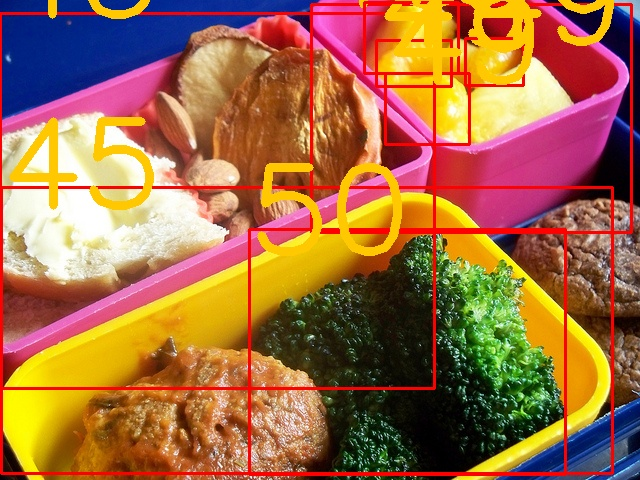
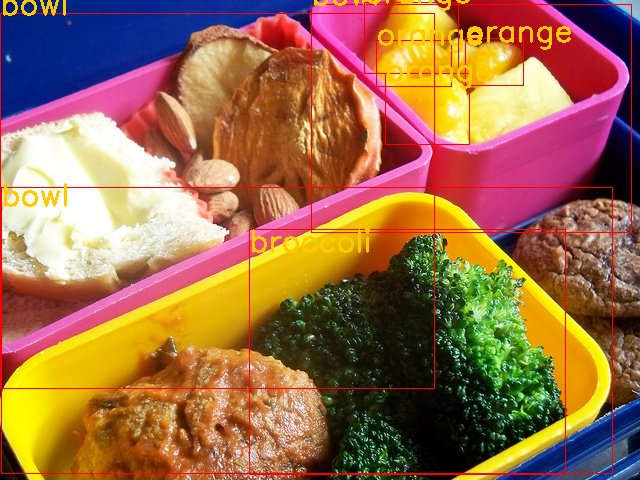
modify configer and plot images

Changed region(s): [[0.0, 0.0, 1.0, 1.0]]

diff --git a/debug.py b/debug.py
@@ -5,8 +5,9 @@ Created on Wed Jul 18 16:48:50 2018
 
 @author: lsk
 """
-
 # -*- coding: utf-8 -*-
+import os
+
 import torch as t
 import torch.nn as nn
 import numpy as np
@@ -30,7 +31,7 @@ if __name__=='__main__':
     # DataLoader
     dataloader = t.utils.data.DataLoader(COCODataset("/home/lsk/Downloads/YOLOv3_PyTorch/data/coco/trainvalno5k.txt",
                                          (416, 416), is_training=True),
-                                         batch_size=1, shuffle=False, num_workers=32, pin_memory=True)
+                                         batch_size=10, shuffle=False, num_workers=32, pin_memory=True)
     
     cfg=Configer("./cfg/yolov3_train.cfg")
     net_info=cfg.get_net_info()
@@ -56,19 +57,45 @@ if __name__=='__main__':
             images=images.cuda()            
             prediction = model(images)
             #loss=loss_function(prediction, labels, model.stride)
-            labels=loss_function.debug_loss(prediction, labels, model.stride)
+            labels=loss_function.debug_loss(prediction, labels)
             labels=labels.cuda()
             DK=detector.DK_Output()
-            result=DK.write_results(labels, cfg.get_num_classes())
-            result=result.cpu().numpy()
+            results=DK.write_results(labels, cfg.get_num_classes())
+            results=results.cpu().numpy()
             t.cuda.empty_cache()
-            img_name='/home/lsk/Downloads/YOLOv3_PyTorch/data/coco/images/train2014/COCO_train2014_000000000009.jpg'
-            im = cv2.imread(img_name)
-            im_gt = im.copy()
-            gt_boxes = [[x[1], x[2], x[3], x[4]] for x in result]
-            gt_class_ids=[int(x[-1]) for x in result]
-            im = ut.plot_bb(im_gt,gt_boxes,gt_class_ids,cfg.get_inp_dim())
-            cv2.imwrite('001_new.jpg', im)
+            img_names=['COCO_train2014_000000000009.jpg',
+                      'COCO_train2014_000000000025.jpg',
+                      'COCO_train2014_000000000030.jpg',
+                      'COCO_train2014_000000000034.jpg',
+                      'COCO_train2014_000000000036.jpg',
+                      'COCO_train2014_000000000049.jpg',
+                      'COCO_train2014_000000000061.jpg',
+                      'COCO_train2014_000000000064.jpg',
+                      'COCO_train2014_000000000071.jpg',
+                      'COCO_train2014_000000000072.jpg']
+            for i, img_name in enumerate(img_names):
+                img_dir = os.path.join('/home/lsk/Downloads/YOLOv3_PyTorch/data/coco/images/train2014/',img_name)
+                im = cv2.imread(img_dir)
+                im_gt = im.copy()            
+                gt_boxes = [[x[1], x[2], x[3], x[4]] for x in results if x[0]==i]
+                gt_class_ids=[int(x[-1]) for x in results if x[0]==i]
+                gt_class_name=[ cfg.get_dataset_name_seq()[x] for x in gt_class_ids]
+                im = ut.plot_bb(im_gt,gt_boxes,gt_class_name,cfg.get_inp_dim())
+                win_name = '1'
+                cv2.imshow(win_name,im)
+                cv2.moveWindow(win_name,10,10)
+                
+                k = cv2.waitKey(0)
+                if k==ord('q'):
+                    cv2.destroyAllWindows()
+                    break
+                elif k==ord('c'):
+                    try:
+                        cv2.destroyWindow(win_name)
+                    except:
+                        cv2.destroyAllWindows()
+                        break
+            #cv2.imwrite('001_new.jpg', im)
             '''
             for i, image in enumerate(images.cpu()):
                 image = image.numpy()

diff --git a/layer/loss_function.py b/layer/loss_function.py
@@ -16,9 +16,6 @@ class YOLO3Loss(nn.Module):
         self.num_classes = self.configer.get_num_classes()
         self.bbox_attrs = 5 + self.num_classes
         self.img_size = self.configer.get_inp_dim()    #416
-        self.stride=self.configer.get_strides()
-
-        self.ignore_threshold = self.configer.get_iou_threshold()
 
         '''
         self.coord_scale = loss_lambda[0]
@@ -32,11 +29,12 @@ class YOLO3Loss(nn.Module):
 
     def forward(self, prediction, targets):
         
+        stride=self.configer.get_total_strides()
         num_feature_map = len(self.configer.get_scaled_anchor_list())
 
         bs = prediction.size(0)
         total_anchors = prediction.size(1) #10647[507,2028,8112]
-        feature_map_size_list = [int((self.img_size / self.stride) * pow(2,i)) for i in range(num_feature_map)]
+        feature_map_size_list = [int((self.img_size / stride) * pow(2,i)) for i in range(num_feature_map)]
                 
         # Get outputs
         x = prediction[..., 0]          # Center x
@@ -118,7 +116,7 @@ class YOLO3Loss(nn.Module):
                     anch_ious = bbox.bbox_iou(gt_box, anchor_shapes)
                     # Where the overlap is larger than threshold set mask to zero (ignore)
                     for i in range(anch_ious.size()[0]):
-                        if anch_ious[i] > self.ignore_threshold:
+                        if anch_ious[i] > self.configer.get_iou_threshold():
                                 noobj_mask[b, (last_num_anchors_list[m] + len(scaled_anchor_list[m]) * gi * gj)+i] = 0
 
                     # Find the best matching anchor box
@@ -164,12 +162,12 @@ class YOLO3Loss(nn.Module):
 
         return mask, noobj_mask, tx, ty, tw, th, weight_w_h, tconf, tcls
         
-    def debug_loss(self, prediction, targets, stride):
+    def debug_loss(self, prediction, targets):
         num_feature_map = len(self.configer.get_scaled_anchor_list())
-        self.stride=stride
+        stride=self.configer.get_total_strides()
         bs = prediction.size(0)
         total_anchors = prediction.size(1) #10647[507,2028,8112]
-        feature_map_size_list = [int((self.img_size / self.stride) * pow(2,i)) for i in range(num_feature_map)] 
+        feature_map_size_list = [int((self.img_size / stride) * pow(2,i)) for i in range(num_feature_map)] 
 
         mask, noobj_mask, tx, ty, tw, th, weight_w_h, tconf, tcls = self._get_target(targets, total_anchors,
                                                                         bs, feature_map_size_list, num_feature_map)

diff --git a/net/darknet.py b/net/darknet.py
@@ -31,22 +31,17 @@ class Darknet(nn.Module):
     '''
     def __init__(self, configer):
         super(Darknet, self).__init__()
-        self.anchor_list=[]
         self.configer=configer
         self.blocks = self.configer.get_blocks()
-        self.net_info = self.configer.get_net_info()
         self.module_list = self.create_modules()        
-        self.stride=-1
-        self.flag=0
+        
     
     
     def forward(self, x):
         detections=[]
         modules=[x['type'] for x in self.blocks]
         outputs={}
-        write=0
-        if len(self.configer.get_scaled_anchor_list())!=0:            
-            self.flag=1
+        write=0        
         
         for i in range(len(modules)):
             if modules[i]=='convolutional' or modules[i]=='upsample':
@@ -75,9 +70,7 @@ class Darknet(nn.Module):
                     continue
                 
                 if not write:
-                    detections=x
-                    if self.stride==-1:
-                        self.stride=self.module_list[i][0].stride
+                    detections=x                    
                     write=1
                 else:
                     detections = t.cat((detections, x), 1)
@@ -304,12 +297,12 @@ class Darknet(nn.Module):
                 mask=x['mask'].split(',')
                 mask=[int(x) for x in mask]
                 
-                anchors=self.net_info['anchors'].split(',')
+                anchors=self.configer.get_anchors().split(',')
                 anchors=[float(x) for x in anchors]
                 anchors=[(anchors[x],anchors[x+1]) for x in range(0,len(anchors),2)]
                 anchors=[anchors[x] for x in mask]            
                 
-                self.anchor_list.append(anchors)
+                #self.anchor_list.append(anchors)
                 
                 detection = DetectionLayer(anchors=anchors, 
                                            configer=self.configer,

diff --git a/cfg/tools/configer.py b/cfg/tools/configer.py
@@ -6,13 +6,13 @@ class Configer(object):
         self.cfgfile=cfgfile
         self.blocks = []
         self.net_info=None
-        self.parse_cfg()
-        #self.net_info['dataset']=data_info
+        self._parse_cfg()
+        self.net_info['dataset']=data_info
         self.net_info['strides'] = -1
         self.net_info['scaled_anchor_list'] = []
         self.net_info['anchor_list'] = []
         
-    def set_strides(self, strides):
+    def set_total_strides(self, strides):
         self.net_info['strides'] = strides
         
     def set_scaled_anchor_list(self, scaled_anchor_list):
@@ -43,7 +43,7 @@ class Configer(object):
     def get_iou_threshold(self):
         return float(self.net_info['ignore_iou_thresh'])
     
-    def get_strides(self):
+    def get_total_strides(self):
         return self.net_info['strides']
     
     def get_anchors(self):
@@ -67,13 +67,13 @@ class Configer(object):
     def get_dataset_std():
         return data_info['std']
     
-    def get_dataset_name_seq():
-        return data_info['name_seq']
+    def get_dataset_name_seq(self):
+        return self.net_info['dataset']['name_seq']
     
     def get_data_dir():
         return data_info['data_dir']
     
-    def parse_cfg(self):
+    def _parse_cfg(self):
         """
         Takes a configuration file
         
@@ -105,5 +105,5 @@ class Configer(object):
         self.net_info=self.blocks.pop(0)
 
 if __name__ == '__main__':
-    cfg=Configer("../yolov3_train.cfg")
+    cfg=Configer("../yolov3.cfg")
     net_info=cfg.get_net_info()

diff --git a/util.py b/util.py
@@ -25,7 +25,7 @@ def get_test_input(img_name,inp_dim):
     img_ = Variable(img_) # Convert to Variable
     return img_
 
-def plot_bb(im,bb,cls,inp_dim,textSize=4,textThickness=8):
+def plot_bb(im,bb,cls,inp_dim,textSize=1,textThickness=2):
     if im.shape[0]==3:
         im=im.transpose(1,2,0)#.contiguous()
     h,w,c = im.shape
@@ -37,7 +37,7 @@ def plot_bb(im,bb,cls,inp_dim,textSize=4,textThickness=8):
         y1 = int(max([0, (box[1]/inp_dim)*h ]))
         y2 = int(min([h, (box[3]/inp_dim)*h ]))        
 
-        cv2.rectangle(im,(x1,y1),(x2,y2),(0,0,255),2)
+        cv2.rectangle(im,(x1,y1),(x2,y2),(0,0,255),1)
         cv2.putText(im,
                     '%s'%(cls[idx]),
                     (x1,int(y1*1.1)),
@@ -48,4 +48,4 @@ def plot_bb(im,bb,cls,inp_dim,textSize=4,textThickness=8):
 
 if __name__ == '__main__':
     cfgfile='./cfg/yolov3.cfg'
-    print(111)
+    print(111)    

diff --git a/layer/layers.py b/layer/layers.py
@@ -1,16 +1,11 @@
 # -*- coding: utf-8 -*-
-import util as ut
-
 import numpy as np
-import cv2 
-import matplotlib.pyplot as plt
 
 import torch as t
 import torch.nn as nn
-from torch.autograd import Variable
-import torch.nn.functional as F
 
 from logger import Logger as log
+import util as ut
 
 class EmptyLayer(nn.Module):
     def __init__(self,shortcut_from=-1,route_start=-1,route_end=-1,anchors=[]):
@@ -49,6 +44,8 @@ class DetectionLayer(nn.Module):
         #stride: Scaling ratio
         batch_size = prediction.size(0)
         self.stride=self.configer.get_inp_dim()//prediction.size(2)
+        if self.configer.get_total_strides()==-1:
+            self.configer.set_total_strides(self.stride)
         grid_size=prediction.size(2)
         bbox_attrs = 5 + self.configer.get_num_classes()
         num_anchors = len(self.anchors)

diff --git a/detector.py b/detector.py
@@ -67,8 +67,17 @@ class DK_Output:
                 image_pred_ = image_pred[non_zero_ind,:]
             except:
                 continue #if there is no result,
-            
-            img_classes=self._unique(image_pred_[:,-1])
+            try:
+                img_classes=self._unique(image_pred_[:,-1])
+            except:
+                seq = torch.FloatTensor([i]).cuda(), image_pred_
+                if not write:
+                    output = torch.cat(seq).unsqueeze(0)
+                    write = True
+                else:
+                    out = torch.cat(seq).unsqueeze(0)
+                    output = torch.cat((output,out))                
+                continue
             
             for cls in img_classes:#get the detections with one particular class
                 
